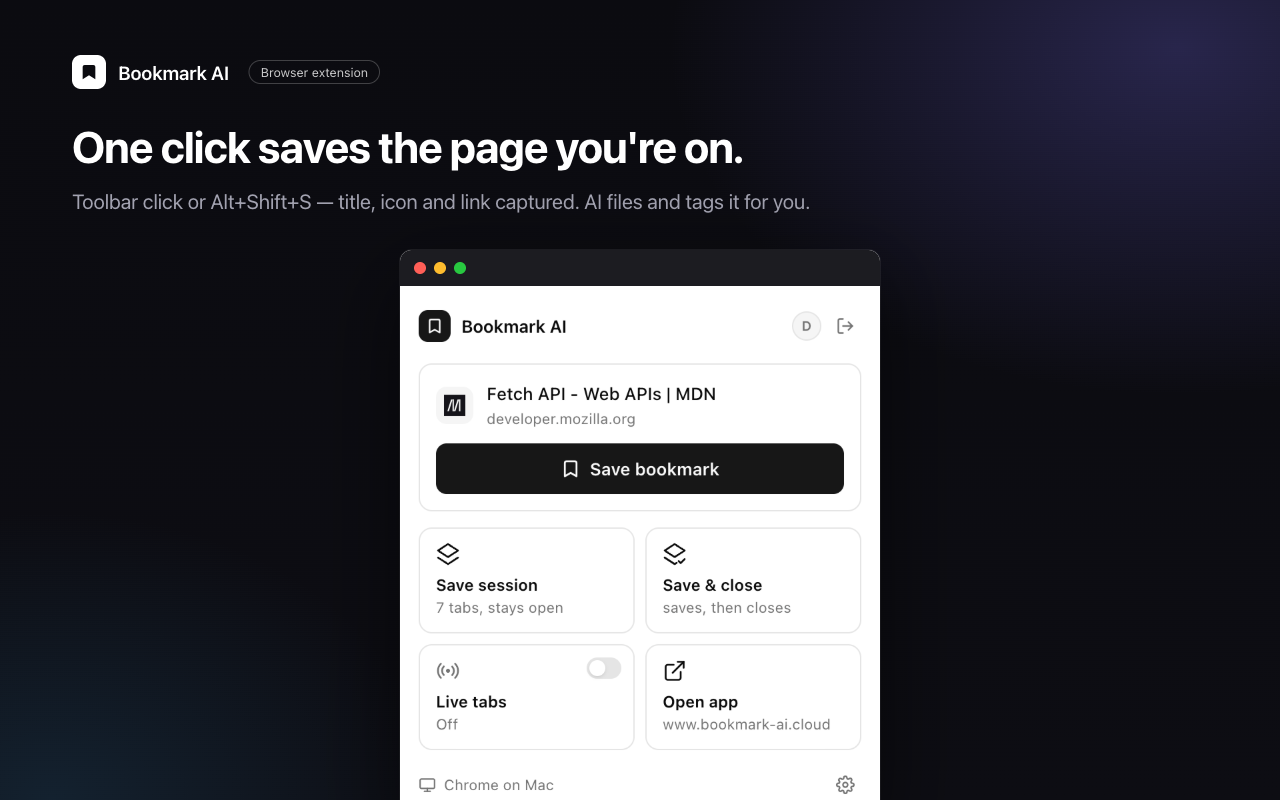
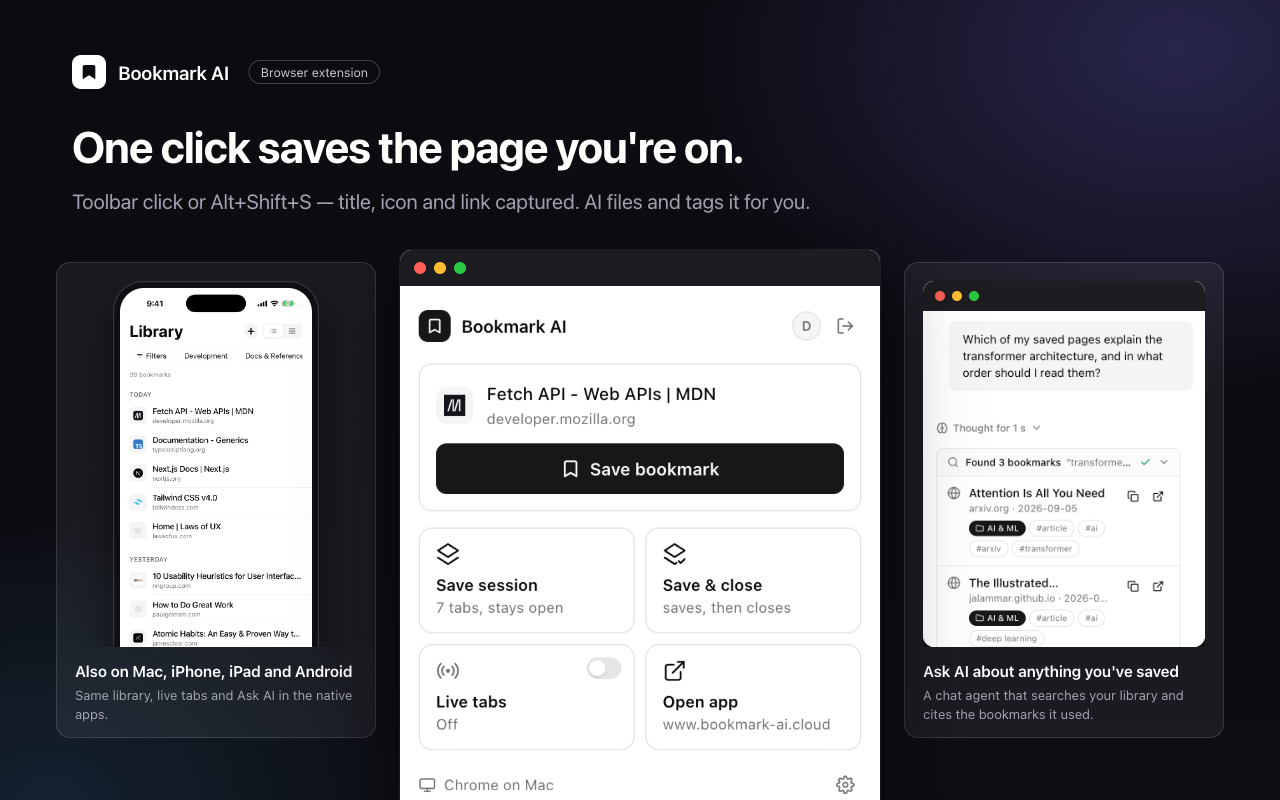
docs(extension): store screenshot set v2 — Ask AI, native apps, and merged live frame
Six 1280×800 frames shot on the demo library: save (popup with mobile + Ask AI callouts),
library with a search-by-meaning inset, Ask AI, live tabs with the popup opt-in inset, the
native-app composite (Mac, iPhone, iPad, Android), and the standalone search frame (AMO only).
Captions trimmed to the 132-character Chrome Web Store cap; README recipe updated.

Claude-Session: https://claude.ai/code/session_017oUccvVJUarMaN31iyHk5m

Changed region(s): [[0.7188, 0.3438, 0.9688, 0.9062], [0.0625, 0.3438, 0.2812, 0.9062]]

diff --git a/apps/extension/store-assets/README.md b/apps/extension/store-assets/README.md
@@ -3,45 +3,93 @@
 Listing graphics for the Chrome Web Store and Firefox Add-ons submissions (`STORE-LISTING.md`,
 `AMO-LISTING.md`). Every screenshot is **1280×800 PNG, RGB, no alpha** (verify with
 `sips -g pixelWidth -g pixelHeight -g hasAlpha <file>` → `1280 / 800 / no`), composed in the
-shared style: dark gradient, brand mark + context pill, headline, grey subline, the real UI in a
-macOS-style window. Real UI only — the production look (black/white icon plate, name
-"Bookmark AI") of the current popup, and the signed-in web app on a curated demo library. No
-personal data is in frame; the account is a throwaway "Demo User" on the dev Clerk instance and
-the library was seeded with public docs/articles for the shoot.
+shared style: dark gradient, brand mark + context pill, headline, grey subline, real UI in a
+macOS-style window (plus, where a frame calls for it, callout cards, a floating inset window and
+plain CSS phone/tablet bezels). **Real UI only** — every pixel of product UI is a capture of a
+running build on ONE demo library: the production look (black/white icon plate, name
+"Bookmark AI") of the current popup, the signed-in web app, the native Mac app, and the iPhone /
+iPad / Android apps. No mockups, no edited DOM, no personal data in frame; the account is a
+throwaway "Demo User" on the dev Clerk instance and the library was seeded with public
+docs/articles for the shoot.
 
-| File | Size | Shows | Caption to enter in the store |
+| File | Size | Shows | Caption to enter in the store (≤132 chars, the CWS cap) |
 | --- | --- | --- | --- |
-| `1-save.png` | 1280×800 | Popup on an MDN article: favicon, title, domain, **Save bookmark**, Save session / Save & close tiles, Live tabs (off), Open app → `www.bookmark-ai.cloud`, device footer | One click saves the page you're on. Toolbar click or Alt+Shift+S — title, icon and link captured; AI files and tags it for you. |
-| `2-library.png` | 1280×800 | Web app `/app/library`, grid view: sidebar with categories/browsers counts, tag rail, "Today" group with categorized + tagged cards | Every save lands filed, tagged, and searchable. Auto-categorized on save; hybrid search finds pages by meaning, not just keywords. |
-| `3-search.png` | 1280×800 | Web app search for "the classic transformer paper and how to use those models today", list view — "No exact matches — showing the closest results by meaning." with the two semantic hits | Search by meaning, not keywords. Describe what you remember — full-text and semantic search are blended, so the right page surfaces even when its words never appear in your query. |
-| `4-live-optin.png` | 1280×800 | Popup Live tabs panel expanded: master switch on, per-window rows (this window shared, a second window not), device name "Chrome on Mac", compact action strip | Share a window as a live session. Strictly opt-in, per window. Private windows are never sent, and live data expires automatically after 7 days. |
-| `5-live.png` | 1280×800 | Web app `/app/library?section=live`: device "Chrome on Mac" streaming, "Window 1 · 7 tabs" expanded with tab titles + favicons | Your open tabs, on every device, live. Close the laptop, open your phone, keep reading — tabs stream to your other devices in real time. |
+| `1-save.png` | 1280×800 | Popup on an MDN article (favicon, title, domain, **Save bookmark**, Save session / Save & close tiles, Live tabs off, Open app → `www.bookmark-ai.cloud`, device footer) flanked by two callout cards: the iPhone app's Library in a phone bezel ("Also on Mac, iPhone, iPad and Android") and a crop of a real Ask AI answer ("Ask AI about anything you've saved") | One click saves the page you're on — title, icon and link captured, AI files and tags it. Also on Mac, iPhone, iPad and Android. |
+| `2-library.png` | 1280×800 | Web app `/app/library`, grid view: sidebar with category/browser counts, tag rail, "Today" group of categorized + tagged cards; floating inset window (lower right) with the real search-by-meaning view — the query in the search box, "No exact matches — showing the closest results by meaning." and the top semantic hits | Filed, tagged, and searchable by meaning — auto-categorized on save, with full-text and semantic search blended. |
+| `3-ask-ai.png` | 1280×800 | Web app with the Ask AI dock docked beside the library (sidebar collapsed to its icon rail): one real completed exchange — the question, "Thought for 1 s", the "Found 1 bookmark" tool row with the bookmark card it searched (category/tags), and the one-sentence answer linking that bookmark | Ask AI about everything you've saved — a chat agent over your library, sessions and open tabs that cites the bookmarks it used. |
+| `4-live.png` | 1280×800 | Web app `/app/library?section=live`: device "Chrome on Mac" streaming, its window expanded with tab titles + favicons; inset (right) of the popup's Live tabs panel expanded — master switch on, per-window rows (this window shared, a second window not), "Shown as Chrome on Mac" | Your open tabs, on every device, live — opt in per window; private windows never leave the browser and live data expires in 7 days. |
+| `5-everywhere.png` | 1280×800 | Native Mac app (SwiftUI, light, library grid + sidebar) large in the back, iPhone Library front-left, iPad Library behind-right, Android Library front-right — all real captures in plain CSS bezels | One library on every screen — native Mac, iPhone, iPad and Android apps plus the web app. Works with Chrome, Firefox and Safari. |
+| `6-search.png` | 1280×800 | (AMO only — CWS caps at 5) Web app search for "the classic transformer paper and how to use those models today", list view — "No exact matches — showing the closest results by meaning." with the semantic hits | Search by meaning, not keywords — describe what you remember and the right page surfaces even when its words never appear. |
 | `promo-440x280.png` | 440×280 | CWS small promo tile — brand mark + one-liner, no screenshots | (no caption field) |
 
-Display order in the store = file number order. CWS accepts 1–5 screenshots; all five are real
-captures (none blocked). AMO reuses the same five.
+Display order in the store = file number order. **CWS takes 1–5**, **AMO takes 1–6**. Every
+frame is a real capture (none blocked, none mocked): the Android capture is the dev build on the
+`bookmark_pixel` emulator; the iPhone/iPad captures are dev builds on throwaway simulators; the
+Mac capture is a re-signed copy of the Debug build on the local server target.
 
 ## How they were made (repeatable)
 
-- **Popup**: the LOCAL WXT build (`.output/chrome-mv3-dev`, pointed at `localhost:3000` with
-  `DEV_OPEN_API=1`) copied out of the tree, with `icon-local/*.png` replaced by `icon/*.png` and
-  the manifest `name` set to `Bookmark AI`, loaded into Chrome for Testing via puppeteer-core
-  (`--load-extension`, `--disable-background-timer-throttling
-  --disable-backgrounding-occluded-windows --disable-renderer-backgrounding`). The popup is
-  opened as `chrome-extension://<id>/popup.html` in a BACKGROUND tab while the MDN article tab
-  is active (so it detects the article), clicks are DOM `.click()` in `evaluate`, waits use
-  `waitForFunction(…, {polling:"mutation"})`. Captured at 360 CSS px × 2, light colour scheme
-  (`emulateMediaFeatures`). For shot 1 only, `chrome.storage.local.apiUrl` was set to
-  `https://www.bookmark-ai.cloud` for the duration of the capture so the Open-app tile shows
-  the production host instead of `localhost:3000` (removed right after).
-- **Web app**: same CfT profile signed in through the real Clerk sign-in UI as a demo user,
-  light theme, 1136×760 CSS viewport × 2, Next.js dev badge hidden via an injected
-  `nextjs-portal{display:none}` style. Shot 5 is a real stream: the loaded extension's Live tabs
-  switch was turned on, and the local live server (`localhost:8091`) fanned the window out to
-  the web view.
-- **Frames**: an HTML template rendered by the same browser at `deviceScaleFactor: 1`,
-  viewport 1280×800, with the capture embedded as an `<img>` inside the window frame.
+Demo data: `seed-demo.mjs` + `seed-extra.mjs` POST 24 public pages to the local dev server
+(`DEV_OPEN_API=1`, file-based dev DB) with realistic browser/device/savedAt metadata and record
+the ids in `seeded-ids.json` for cleanup; wait for enrichment (titles, categories, tags,
+embeddings — poll `GET /api/bookmarks` + `/api/meta`) before shooting. `savedAt` stamps must be
+in the PAST relative to the shoot (the native apps show relative times — "in 4 hours" is not a
+state to ship). Every client below points at the same local dev server, so all frames show ONE
+library.
 
-Regenerating: the scratch scripts (`launch-browser.mjs`, `popup-capture.mjs`,
-`capture-web.mjs`, `compose.mjs` + `specs/*.json`) lived in the session scratchpad; the recipe
-above plus `docs/TESTING.md` §3 is enough to rebuild them.
+- **Popup**: the LOCAL WXT build (`pnpm --filter @bookmark-ai/extension build:local` →
+  `.output/chrome-mv3-dev`, pointed at `localhost:3000`) copied out of the tree, with
+  `icon-local/*.png` replaced by `icon/*.png` and the manifest `name` set to `Bookmark AI`, loaded
+  into Chrome for Testing via puppeteer-core (`--load-extension`,
+  `--disable-background-timer-throttling --disable-backgrounding-occluded-windows
+  --disable-renderer-backgrounding`, its own profile, own remote-debugging port). The popup is
+  opened as `chrome-extension://<id>/popup.html` in a BACKGROUND tab of the demo window while the
+  MDN article tab is active (so it detects the article), clicks are DOM `.click()` in `evaluate`,
+  waits use `waitForFunction(…, {polling:"mutation"})`. Captured at 360 CSS px × 2, light colour
+  scheme (`emulateMediaFeatures`). For frame 1 only, `chrome.storage.local.apiUrl` was set to
+  `https://www.bookmark-ai.cloud` for the duration of the capture so the Open-app tile shows the
+  production host (removed right after). The Live panel inset (frame 4) is the same popup with
+  the master switch turned on, the web app moved to its own window and that window's row
+  toggled off — a real stream to the local live server (`localhost:8091`).
+- **Web app**: same profile signed in through the real Clerk sign-in UI as the demo user (email +
+  password, then the instance's email-code step), light theme, 1136×760 CSS viewport × 2 — the
+  library grid for frame 2 at 1300×760 so three columns show, the live view for frame 4 at
+  820×620 so the window ends before the inset — Next.js dev badge hidden via an injected
+  `nextjs-portal{display:none}` style. Search views load `/app/library?q=…` and switch layout with
+  the real "List view" toggle; the search inset in frame 2 is a 480 px-wide viewport capture of
+  the same view. Ask AI opens with `/app/library?ai=1`; the dock width is the persisted
+  drag-resize fraction (`bookmark-ai:chat-fraction`, 0.4 for frame 3); ONE real question is typed
+  and the capture waits for the agent to finish (the send control leaves its "Stop generating"
+  state), then the thread is scrolled back to the top so the whole exchange is in view. The frame 1 chat card is a crop of a
+  second run of the same question with the dock at its narrowest docked width (0.3), scrolled
+  back to the top so it starts at the question.
+- **Mac app**: an isolated copy of the Debug `BookmarkAI.app` (`CFBundleIdentifier` changed to
+  `ai.purecode.bookmarkai.macos.shoot`, entitlements extracted with `codesign -d --entitlements
+  :-` and re-signed ad hoc with `codesign --force --deep --sign -`), so it has its own sandbox
+  container/UserDefaults and never touches a real install. Prefs written into that container
+  (`serverTarget=local`, `appearanceMode=light`, `libraryLayout=grid`), window sized to 1200×760
+  points, grid scrolled to the top, captured with `screencapture -x -o -l <windowId>` (window id
+  from `CGWindowListCopyWindowInfo` filtered by the copy's PID). Quit by bundle id afterwards.
+- **iPhone / iPad**: throwaway simulators (`xcrun simctl create "Shoot iPhone 17" …iOS-26-5`,
+  `"Shoot iPad Pro 13" …iOS-26-0`) with a dev build (`cd apps/mobile && npx expo run:ios
+  --no-bundler --device <udid>`, Metro on :8081; dev builds resolve `SERVER_TARGET=local` and the
+  dev Clerk instance), signed in as the demo user through the real sign-in screen (input driven
+  with `idb ui tap` / `idb ui text`, element frames from `idb ui describe-all`), status bar
+  overridden (`xcrun simctl status_bar … --time 9:41 --wifiBars 3 --cellularBars 4 --batteryLevel
+  100`), light appearance, captured with `xcrun simctl io <udid> screenshot`. Deleted afterwards.
+- **Android**: the `bookmark_pixel` AVD with a fresh dev build (`npx expo run:android
+  --no-bundler`, JDK 21 + `ANDROID_HOME` per the mobile setup notes), signed in as the demo user
+  via `adb shell input tap/text` (short chunks), status bar cleaned with SystemUI demo mode,
+  captured with `adb exec-out screencap -p`.
+- **Frames**: an HTML template rendered by the same Chrome for Testing at `deviceScaleFactor: 1`,
+  viewport 1280×800. Layers: macOS-style window (CSS title bar + the 2× capture), floating inset
+  window (optionally a cropped/scaled region of a capture), callout card (rgba-white surface,
+  1 px border, 14 px radius, phone bezel or UI crop + label + sub-line), CSS phone/tablet bezels
+  (rounded rect, thin dark frame) around real screenshots, and the native Mac capture with
+  corners + shadow only (its title bar is real). The template asserts the headline fits on one
+  line and the subline stays inside 760 px.
+
+Regenerating: the scratch scripts (`launch-browser.mjs`, `seed-demo.mjs`, `popup-capture.mjs`,
+`capture-web.mjs`, `capture-chat.mjs`, `move-app-window.mjs`, `compose-v2.mjs` + `specs/*.json`,
+`live-off.mjs`, `cleanup-seeds.mjs`) lived in the session scratchpad; the recipe above plus
+`docs/TESTING.md` §3 is enough to rebuild them.

diff --git a/apps/extension/STORE-LISTING.md b/apps/extension/STORE-LISTING.md
@@ -69,16 +69,16 @@ removed and the private key bundled as `key.pem`, which keeps the pinned extensi
 | Asset | Size | Required | Source |
 | --- | --- | --- | --- |
 | Store icon | 128×128 PNG | yes | already in the zip: `icon/128.png` (dashboard picks it up from the manifest; upload the same file if asked) |
-| Screenshots (1–5) | **1280×800** (preferred) or 640×400, PNG/JPEG, no alpha | at least 1 | `store-assets/1-save.png … 5-live.png` — captions + provenance in `store-assets/README.md` |
+| Screenshots (1–5) | **1280×800** (preferred) or 640×400, PNG/JPEG, no alpha | at least 1 | `store-assets/1-save.png … 5-everywhere.png` — captions + provenance in `store-assets/README.md` (`6-search.png` is the AMO-only sixth frame; CWS caps at 5) |
 | Small promo tile | 440×280 | no (recommended) | `store-assets/promo-440x280.png` — brand mark on dark background + one-liner |
 | Marquee promo | 1400×560 | no | only if featured placement is ever pursued |
 
-**Screenshot shot list** (in display order, with suggested captions):
-1. `1-save.png` — the popup on a real article, Save bookmark button visible — "One click saves the page you're on."
-2. `2-library.png` — the library grid with categories/tags sidebar — "Every save lands filed, tagged, and searchable."
-3. `3-search.png` — results for a vague query, "closest results by meaning" — "Search by meaning, not keywords."
-4. `4-live-optin.png` — the popup's Live tabs panel expanded, sharing on for one window — "Share a window as a live session."
-5. `5-live.png` — the Live sessions view with a device streaming its tabs — "Your open tabs, on every device, live."
+**Screenshot shot list** (in display order; captions are ≤132 characters, the CWS cap — the same text is in `store-assets/README.md`):
+1. `1-save.png` — popup on a real article with the native-apps and Ask AI callouts — "One click saves the page you're on — title, icon and link captured, AI files and tags it. Also on Mac, iPhone, iPad and Android."
+2. `2-library.png` — library grid + search-by-meaning inset — "Filed, tagged, and searchable by meaning — auto-categorized on save, with full-text and semantic search blended."
+3. `3-ask-ai.png` — Ask AI dock beside the library, one completed exchange — "Ask AI about everything you've saved — a chat agent over your library, sessions and open tabs that cites the bookmarks it used."
+4. `4-live.png` — Live sessions view + the popup's Live tabs panel — "Your open tabs, on every device, live — opt in per window; private windows never leave the browser and live data expires in 7 days."
+5. `5-everywhere.png` — native Mac app with iPhone, iPad and Android — "One library on every screen — native Mac, iPhone, iPad and Android apps plus the web app. Works with Chrome, Firefox and Safari."
 
 Rules of thumb: exact pixel size (1280×800), real UI only (no mockups that misrepresent),
 readable text, no personal data in frame — use a demo account with curated bookmarks,

diff --git a/apps/extension/AMO-LISTING.md b/apps/extension/AMO-LISTING.md
@@ -156,9 +156,12 @@ No (the hosted service has a free plan; self-hosting is free).
 ## 3 · Listing images
 
 Reuse the CWS assets in `store-assets/` (AMO accepts PNG/JPG; screenshots are displayed at
-their native size and scaled down, 1280×800 works). Upload the icon `public/icon/128.png`
-(AMO also asks for a 64×64 — `public/icon/96.png` is accepted and scaled, or export 64 from
-`scripts/generate-icons.mjs`). Captions per image are in `store-assets/README.md`.
+their native size and scaled down, 1280×800 works). AMO has no five-image cap, so upload all six
+in file order — `1-save.png`, `2-library.png`, `3-ask-ai.png`, `4-live.png`, `5-everywhere.png`,
+`6-search.png` (the standalone search-by-meaning frame is the AMO-only sixth). Upload the icon
+`public/icon/128.png` (AMO also asks for a 64×64 — `public/icon/96.png` is accepted and scaled,
+or export 64 from `scripts/generate-icons.mjs`). Captions per image (≤132 chars each; AMO's own
+caption field is longer but the same text is used) are in `store-assets/README.md`.
 
 ## 4 · Submission walkthrough
 
